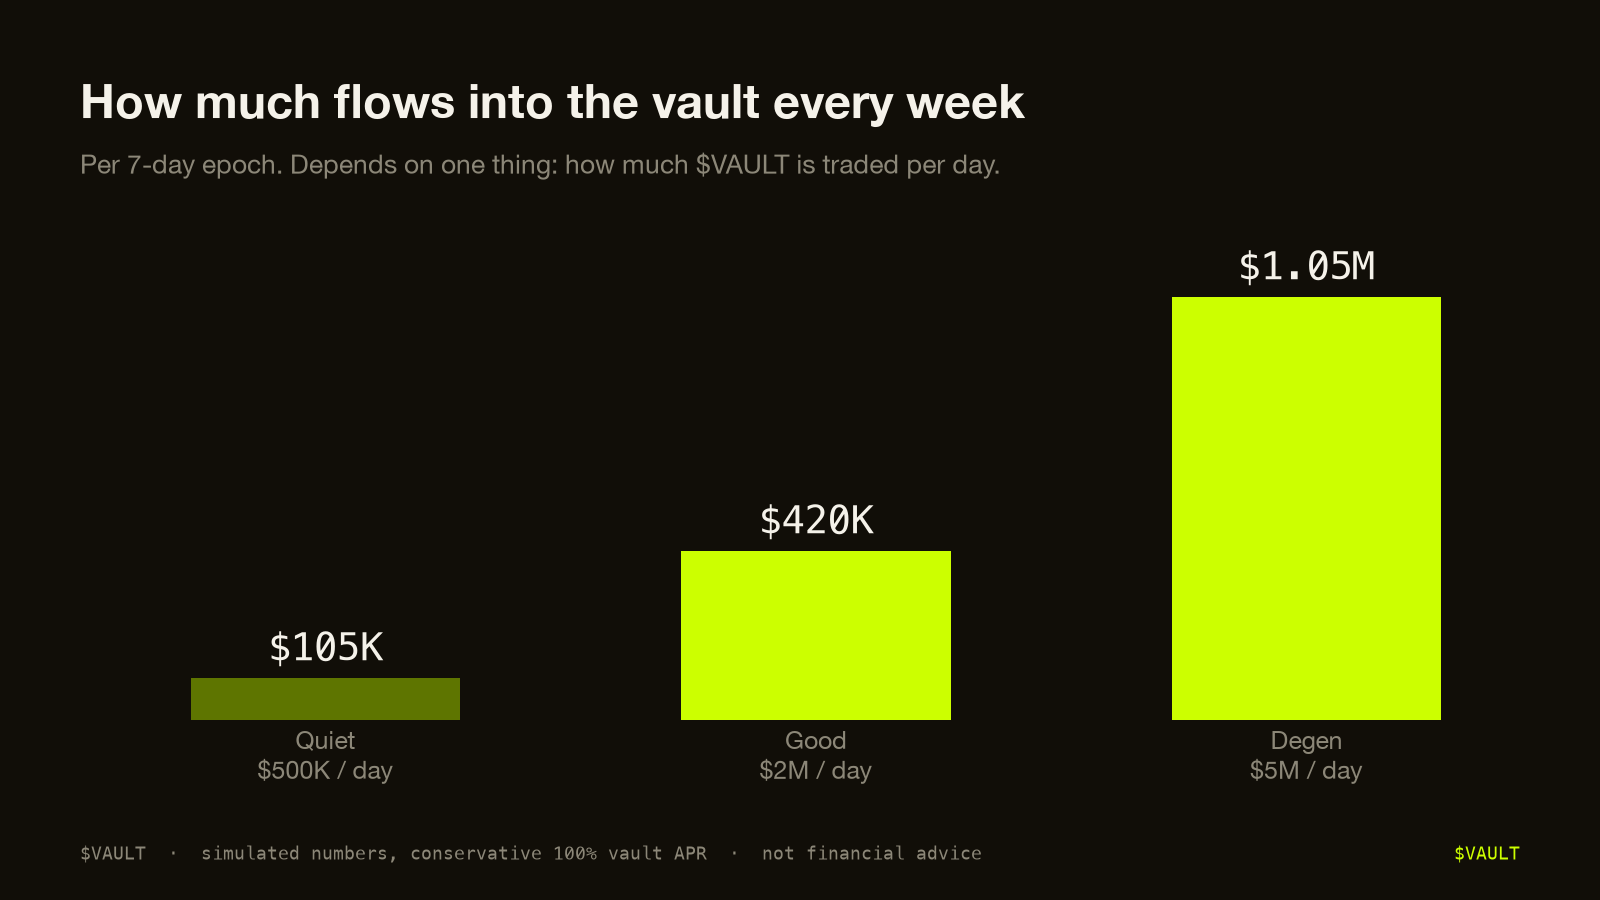
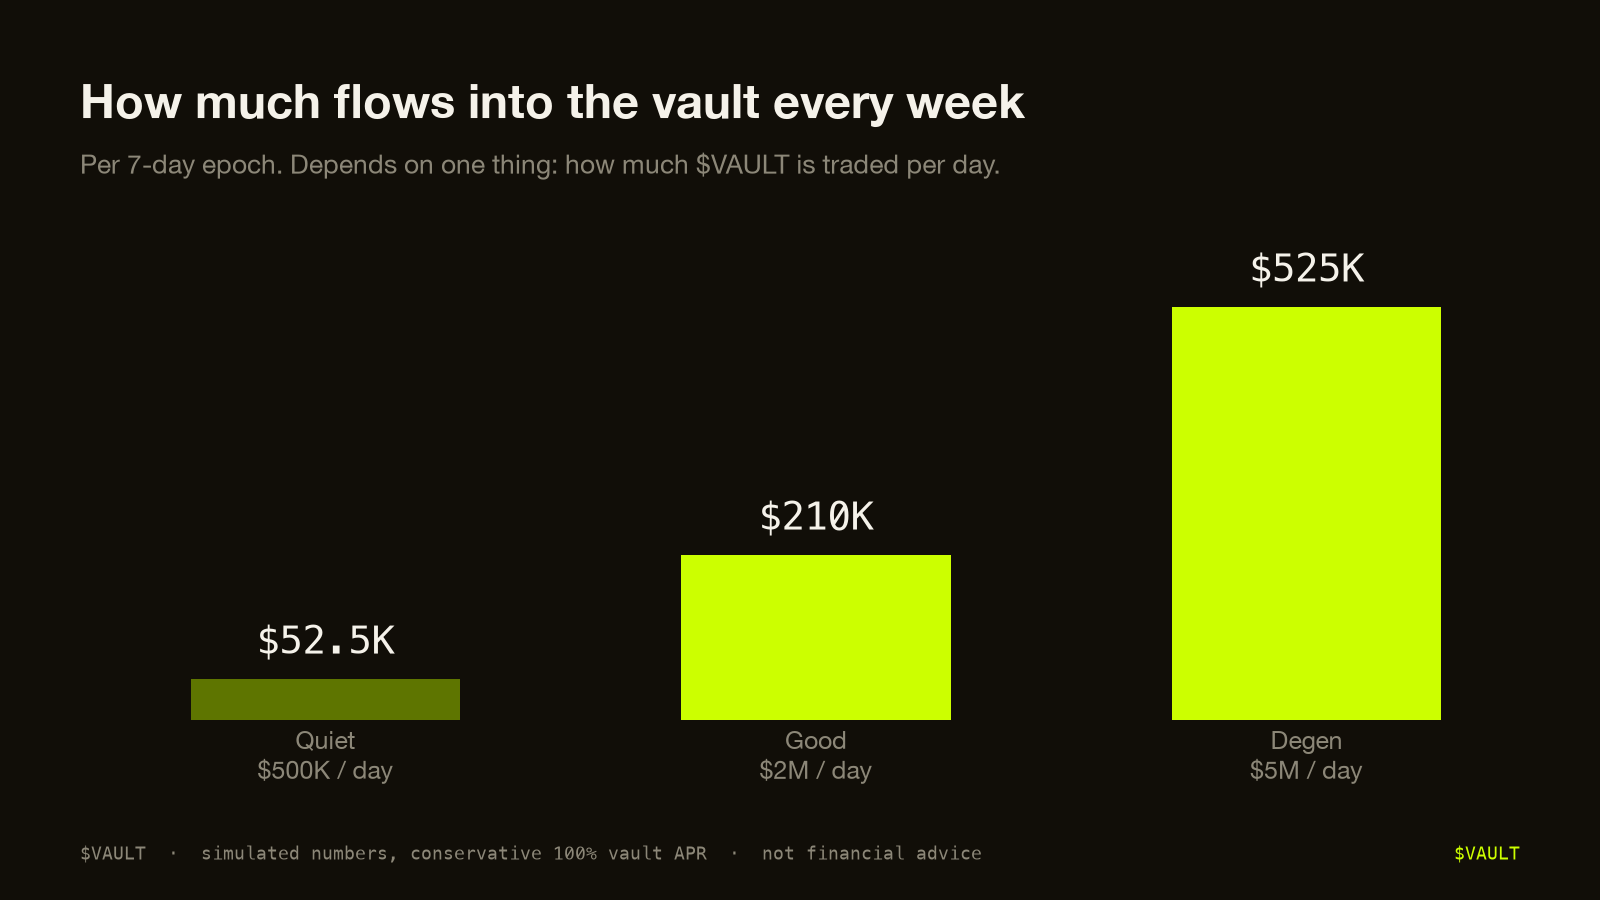
Fee 3% → 1.5% across site, charts and posts

Changed region(s): [[0.7188, 0.28, 0.9062, 0.3422], [0.4375, 0.56, 0.5938, 0.6222], [0.1562, 0.6844, 0.25, 0.7467]]

diff --git a/index.html b/index.html
@@ -50,7 +50,7 @@
       </div>
       <h1>Trade fees in.<br><em>USDC</em> out. Every week.</h1>
       <p class="lede">
-        Every trade of <b>$VAULT</b> on Robinhood Chain collects a 3% fee. All of it is bridged to
+        Every trade of <b>$VAULT</b> on Robinhood Chain collects a 1.5% fee. All of it is bridged to
         HyperEVM and deposited into the most profitable vault on Hyperliquid. Every 7 days the yield
         is paid out in USDC — only to real, verified holders. The longer you hold, the bigger your share.
       </p>
@@ -58,7 +58,7 @@
         <a class="btn btn--ghost btn--lg" href="#how">How it works</a>
       </div>
       <div class="hero__meta">
-        <div><span class="k">Fee on trade</span><span class="v mono">3.0%</span></div>
+        <div><span class="k">Fee on trade</span><span class="v mono">1.5%</span></div>
         <div><span class="k">Routed to vault</span><span class="v mono">100%</span></div>
         <div><span class="k">Payout</span><span class="v mono">Every 7 days</span></div>
         <div><span class="k">Eligible</span><span class="v mono">Verified only</span></div>
@@ -108,8 +108,8 @@
       <div class="flow__step">
         <div class="flow__num mono">01</div>
         <h3>Trade fee · Robinhood Chain</h3>
-        <p>3% on every buy and sell of $VAULT on Robinhood Chain. 100% of it goes to the treasury.</p>
-        <div class="flow__pill mono">→ 3% of volume</div>
+        <p>1.5% on every buy and sell of $VAULT on Robinhood Chain. 100% of it goes to the treasury.</p>
+        <div class="flow__pill mono">→ 1.5% of volume</div>
       </div>
       <div class="flow__step">
         <div class="flow__num mono">02</div>
@@ -243,7 +243,7 @@
           <li><span>Your share of eligible supply</span><span class="mono" id="bShare">0%</span></li>
           <li><span>Hold multiplier</span><span class="mono" id="bMult">×2 <span class="muted" id="bMultNote">· 7 days held</span></span></li>
         </ul>
-        <p class="fine">3% fee · 100% to vault · treasury since launch $6.2K · yield = (treasury + fees) × APR ÷ 52 · team takes 1% of yield after each epoch, 0% of fees · your share = balance × hold multiplier ÷ all verified balances × their multipliers (avg ×2 assumed). Vault returns vary and can be negative.</p>
+        <p class="fine">1.5% fee · 100% to vault · treasury since launch $6.2K · yield = (treasury + fees) × APR ÷ 52 · team takes 1% of yield after each epoch, 0% of fees · your share = balance × hold multiplier ÷ all verified balances × their multipliers (avg ×2 assumed). Vault returns vary and can be negative.</p>
       </div>
     </div>
   </div>

diff --git a/app.js b/app.js
@@ -169,7 +169,7 @@
 
   /* ---------- simple calculator ---------- */
   let lastPool = 0;
-  const SUPPLY = 1e9, START_TREASURY = 6200, FEE = 0.03, TO_VAULT = 1.0, ELIGIBLE = 0.42, TEAM_CUT = 0.01, AVG_MULT = 2; // team: 1% of yield after each epoch
+  const SUPPLY = 1e9, START_TREASURY = 6200, FEE = 0.015, TO_VAULT = 1.0, ELIGIBLE = 0.42, TEAM_CUT = 0.01, AVG_MULT = 2; // team: 1% of yield after each epoch
   // progressive: day 0 = ×0, linear to ×2 at day 7, then +0.1/day, capped at ×4 (day 27)
   const holdMult = d => d <= 0 ? 0 : d <= 7 ? +(d * 2 / 7).toFixed(2) : Math.min(4, +(2 + (d - 7) * 0.1).toFixed(2));
   window.holdMult = holdMult;
@@ -255,7 +255,7 @@
       ctx.beginPath(); ctx.arc(100, 100, 92, a, e); ctx.arc(100, 100, 62, e, a, true); ctx.closePath();
       ctx.fillStyle = col; ctx.fill(); ctx.strokeStyle = css('--panel'); ctx.lineWidth = 3; ctx.stroke(); a = e;
     });
-    ctx.fillStyle = css('--text'); ctx.textAlign = 'center'; ctx.font = '600 22px ' + css('--mono'); ctx.fillText('3.0%', 100, 98);
+    ctx.fillStyle = css('--text'); ctx.textAlign = 'center'; ctx.font = '600 22px ' + css('--mono'); ctx.fillText('1.5%', 100, 98);
     ctx.fillStyle = css('--muted'); ctx.font = '11px ' + css('--sans'); ctx.fillText('fee per trade', 100, 116);
     $('#feeLegend').innerHTML = parts.map(([n, p, col]) => `<div><i class="sw" style="background:${col}"></i>${n}<span class="mono">${p}%</span></div>`).join('');
   }

diff --git a/chain.js b/chain.js
@@ -11,7 +11,7 @@
   const CONFIG = {
     RPC: 'https://rpc.mainnet.chain.robinhood.com',   // Robinhood Chain mainnet (chain id 4663)
     TOKEN: '',                                 // $VAULT ERC-20 contract address (empty = check native ETH balance on Robinhood Chain)
-    FEE_WALLET: '',                            // wallet receiving the 3% fee → shown as TREASURY
+    FEE_WALLET: '',                            // wallet receiving the 1.5% fee → shown as TREASURY
     FROM_BLOCK: null,                          // token deploy block (null = last 200k blocks)
   };
   const isAddr = a => /^0x[0-9a-fA-F]{40}$/.test(a || '');

diff --git a/charts/gen_charts.py b/charts/gen_charts.py
@@ -33,7 +33,7 @@ def lab(ax, x, y, t, size=22, color=TEXT): ax.text(x, y, t, ha="center", va="bot
 def mult(d): return 0 if d <= 0 else round(d * 2 / 7, 2) if d <= 7 else min(4, round(2 + (d - 7) * 0.1, 2))
 
 # 01 fee: 100% to vault
-f = fig(r"Every \$100 traded → \$3 goes into the vault", "3% fee on every buy and sell. 100% of it goes to the treasury on Hyperliquid.", foot=False)
+f = fig(r"Every \$100 traded → \$1.50 goes into the vault", "1.5% fee on every buy and sell. 100% of it goes to the treasury on Hyperliquid.", foot=False)
 ax = f.add_axes([0.05, 0.34, 0.9, 0.34]); clean(ax, bottom=False)
 ax.barh([0], [100], color=LIME, height=0.55); ax.set_xlim(0, 100); ax.set_ylim(-0.6, 0.6)
 ax.text(50, 0, "100%  →  vault treasury", ha="center", va="center", fontsize=28, fontweight="bold", color=BG)
@@ -43,7 +43,7 @@ save(f, "01_fee_split.png")
 # 02 flow
 f = fig("How the machine works", "Five steps. Nothing manual in the middle.")
 ax = f.add_axes([0.03, 0.18, 0.94, 0.58]); ax.set_xlim(0, 100); ax.set_ylim(0, 10); ax.axis("off")
-steps = [("1", "You trade\n$VAULT", "on Robinhood Chain"), ("2", "3% fee\ncollected", "100% → treasury"), ("3", "Deposited in a\nHyperliquid vault", "top-APR vault, auto"),
+steps = [("1", "You trade\n$VAULT", "on Robinhood Chain"), ("2", "1.5% fee\ncollected", "100% → treasury"), ("3", "Deposited in a\nHyperliquid vault", "top-APR vault, auto"),
          ("4", "Vault earns\nyield", "every 7 days"), ("5", "USDC for\nloyal holders", "99% holders · 1% team")]
 n = len(steps); bw = 16; gap = (100 - n * bw) / (n - 1)
 for i, (num, t, s) in enumerate(steps):
@@ -59,22 +59,22 @@ save(f, "02_flow.png")
 # 03 weekly fees by scenario
 f = fig("How much flows into the vault every week", "Per 7-day epoch. Depends on one thing: how much $VAULT is traded per day.")
 ax = f.add_axes([0.08, 0.2, 0.86, 0.56]); clean(ax)
-vals = [105, 420, 1050]
+vals = [52.5, 210, 525]
 ax.bar(range(3), vals, color=[LIME_DIM, LIME, LIME], width=0.55)
 ax.set_xticks(range(3)); ax.set_xticklabels(["Quiet\n$500K / day", "Good\n$2M / day", "Degen\n$5M / day"], fontsize=18)
-for i, v in enumerate(vals): lab(ax, i, v + 20, f"${v/1000:.2f}M" if v >= 1000 else f"${v}K", 28)
-ax.set_ylim(0, 1250); save(f, "03_fees_by_scenario.png")
+for i, v in enumerate(vals): lab(ax, i, v + 20, f"${v/1000:.2f}M" if v >= 1000 else f"${v:g}K", 28)
+ax.set_ylim(0, 640); save(f, "03_fees_by_scenario.png")
 
 # 04 pool growth weekly (good, 100% APR, 99% to holders)
 t = 0; pools = []
-for w in range(8): t += 420_000; pools.append(t / 52 * 0.99)
+for w in range(8): t += 210_000; pools.append(t / 52 * 0.99)
 f = fig("The weekly payout pool keeps growing", "Good scenario ($2M/day). Holder pool = 99% of yield. Treasury never leaves the vault.")
 ax = f.add_axes([0.08, 0.2, 0.86, 0.56]); clean(ax)
 ax.bar(range(8), [p / 1000 for p in pools], color=LIME, width=0.55)
 ax.set_xticks(range(8)); ax.set_xticklabels([f"Week {i+1}" for i in range(8)], fontsize=16)
-for i, p in enumerate(pools): lab(ax, i, p / 1000 + 1.2, f"${p/1000:,.0f}K", 22)
-ax.set_ylim(0, 78)
-ax.text(0, 66, "Every week more fees sit in the vault,\nso every week there is more yield to split.", fontsize=17, color=MUTED, va="top")
+for i, p in enumerate(pools): lab(ax, i, p / 1000 + 0.6, f"${p/1000:,.0f}K", 22)
+ax.set_ylim(0, 40)
+ax.text(0, 34, "Every week more fees sit in the vault,\nso every week there is more yield to split.", fontsize=17, color=MUTED, va="top")
 save(f, "04_pool_growth.png")
 
 # 05 per holder week 8, 7 days held (×2), avg ×2
@@ -85,8 +85,8 @@ ax = f.add_axes([0.08, 0.2, 0.86, 0.56]); clean(ax)
 vals = [pool8 * b / elig for _, b in bags]
 ax.bar(range(4), vals, color=[LIME_DIM, LIME, LIME, LIME], width=0.55)
 ax.set_xticks(range(4)); ax.set_xticklabels([f"{n} $VAULT" for n, _ in bags], fontsize=18)
-for i, v in enumerate(vals): lab(ax, i, v + 60, f"${v:,.0f}", 26)
-ax.set_ylim(0, 3700); ax.text(0, 3200, "in USDC, for that one week.\nHold 27 days → ×4 → double these numbers.", fontsize=17, color=MUTED, va="top")
+for i, v in enumerate(vals): lab(ax, i, v + 30, f"${v:,.0f}", 26)
+ax.set_ylim(0, 1850); ax.text(0, 1600, "in USDC, for that one week.\nHold 27 days → ×4 → double these numbers.", fontsize=17, color=MUTED, va="top")
 save(f, "05_per_holder.png")
 
 # 06 holder check: eligible vs sybil
@@ -124,21 +124,21 @@ ax = f.add_axes([0.08, 0.2, 0.86, 0.56]); clean(ax)
 ds = [1, 3, 7, 14, 27]; vals = [pool8 * 1e6 * mult(d) / (elig * 2) for d in ds]
 ax.bar(range(5), vals, color=[LIME_DIM, LIME_DIM, LIME, LIME, LIME], width=0.55)
 ax.set_xticks(range(5)); ax.set_xticklabels([f"{d} day{'s' if d > 1 else ''}\n×{mult(d):g}" for d in ds], fontsize=17)
-for i, v in enumerate(vals): lab(ax, i, v + 6, f"${v:,.0f}", 24)
-ax.set_ylim(0, 360); ax.text(0, 320, "Selling restarts the counter for the part you sold.\nThe part you keep holds its days.", fontsize=16, color=MUTED, va="top")
+for i, v in enumerate(vals): lab(ax, i, v + 3, f"${v:,.0f}", 24)
+ax.set_ylim(0, 180); ax.text(0, 160, "Selling restarts the counter for the part you sold.\nThe part you keep holds its days.", fontsize=16, color=MUTED, va="top")
 save(f, "09_days_held_payout.png")
 
 # 10 treasury vs pool weekly
 f = fig("Principal stays. Yield gets paid.", "Good scenario, 100% APR. Green = money staying in the vault. Cream = paid out that week.")
 ax = f.add_axes([0.08, 0.2, 0.86, 0.56]); clean(ax)
-tre = [(i + 1) * 0.42 for i in range(8)]; pm = [p / 1e6 for p in pools]
+tre = [(i + 1) * 0.21 for i in range(8)]; pm = [p / 1e6 for p in pools]
 ax.bar(range(8), tre, color=LIME, width=0.55, label="Treasury in the vault (stays)")
-ax.bar(range(8), [max(p, 0.02) for p in pm], bottom=[x + 0.02 for x in tre], color=CREAM, width=0.55, label="Paid out to holders that week")
+ax.bar(range(8), [max(p, 0.01) for p in pm], bottom=[x + 0.01 for x in tre], color=CREAM, width=0.55, label="Paid out to holders that week")
 ax.set_xticks(range(8)); ax.set_xticklabels([f"Week {i+1}" for i in range(8)], fontsize=16)
 for i in range(8):
     ax.text(i, tre[i] / 2, f"${tre[i]:.2f}M", ha="center", va="center", fontsize=15, color=BG, family=MONO, fontweight="bold")
-    ax.text(i, tre[i] + 0.09, f"+${pools[i]/1000:,.0f}K", ha="center", va="bottom", fontsize=15, color=TEXT, family=MONO)
-ax.set_ylim(0, 4.1); ax.legend(loc="upper left", fontsize=16, frameon=False, labelcolor=TEXT)
+    ax.text(i, tre[i] + 0.045, f"+${pools[i]/1000:,.0f}K", ha="center", va="bottom", fontsize=15, color=TEXT, family=MONO)
+ax.set_ylim(0, 2.05); ax.legend(loc="upper left", fontsize=16, frameon=False, labelcolor=TEXT)
 save(f, "10_treasury_vs_pool.png")
 print("pools", [round(p) for p in pools], "per1M", round(pool8*1e6/elig))
 
@@ -146,7 +146,7 @@ print("pools", [round(p) for p in pools], "per1M", round(pool8*1e6/elig))
 f = fig("Token gets traded → money accumulates → money multiplies", "No staking. No claiming. You hold, the vault works, USDC shows up.", foot=False)
 ax = f.add_axes([0.03, 0.14, 0.94, 0.62]); ax.set_xlim(0, 100); ax.set_ylim(0, 10); ax.axis("off")
 random.seed(3)
-cards = [("1", "Token gets traded", "every buy & sell pays 3%"), ("2", "Money accumulates", "100% of fees → vault treasury"), ("3", "Money multiplies", "Hyperliquid vault yield, weekly")]
+cards = [("1", "Token gets traded", "every buy & sell pays 1.5%"), ("2", "Money accumulates", "100% of fees → vault treasury"), ("3", "Money multiplies", "Hyperliquid vault yield, weekly")]
 cw, gap = 28, 5; x0 = (100 - (3 * cw + 2 * gap)) / 2
 for i, (n, t, sub) in enumerate(cards):
     x = x0 + i * (cw + gap); last = i == 2
